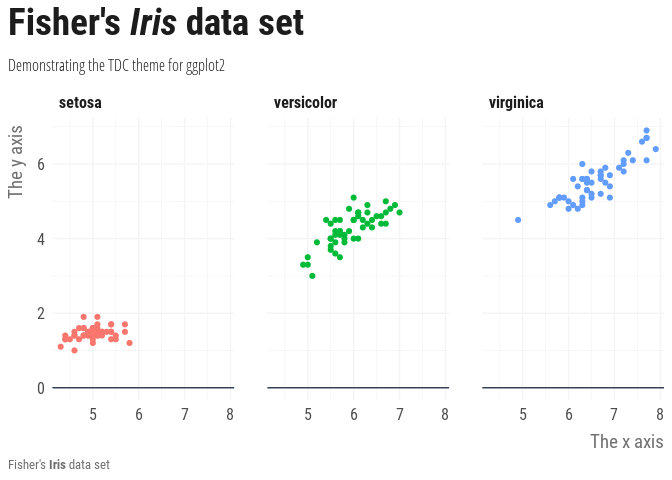
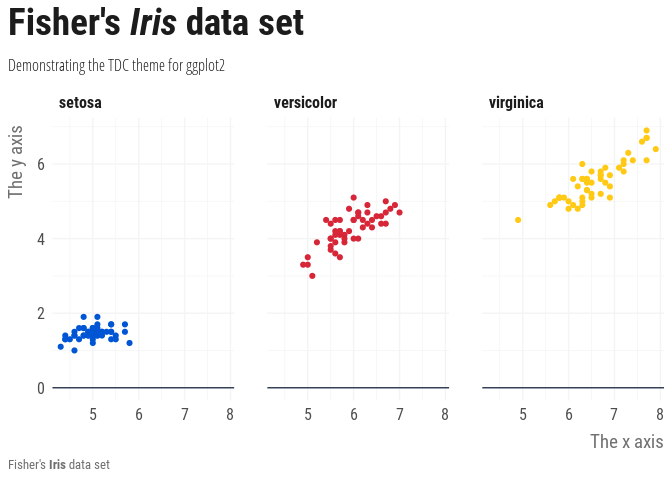
Update fill scale and readme

diff --git a/README.md b/README.md
@@ -13,14 +13,24 @@ available on github, it is purely to provide others with context on how
 they might approach this for their organisation.
 
 Much of this has been riffed off
-[hrbrthemes](https://github.com/hrbrmstr/hrbrthemes) and
-[bbplot](https://github.com/bbc/bbplot).
+[hrbrthemes](https://github.com/hrbrmstr/hrbrthemes),
+[bbplot](https://github.com/bbc/bbplot) and
+[ochRe](https://github.com/ropenscilabs/ochRe)
 
 The package does make use of the
 [ggtext](https://github.com/wilkelab/ggtext) to enhance text styling
 options.
 
 ## Installation
+
+To make full use of the `ggtext` components it is necessary to have
+`gridtext` installed.
+
+``` r
+remotes::install_github("wilkelab/gridtext")
+```
+
+To install `tdcthemes`
 
 ``` r
 remotes::install_github("thedatacollective/tdcthemes")
@@ -36,14 +46,15 @@ library(tdcthemes)
 
 ## basic example code
 ggplot(iris, aes(Sepal.Length, Petal.Length, colour = as.factor(Species))) +
-geom_point() +
-labs(title = "Fisher's *Iris* data set",
-subtitle = "Demonstrating the TDC theme for ggplot2",
-x = "The x axis", y = "The y axis",
-caption = "Fisher's **Iris** data set") +
-facet_wrap(~ Species) +
-style_tdc() +
-NULL
+  geom_point() +
+  labs(title = "Fisher's *Iris* data set",
+       subtitle = "Demonstrating the TDC theme for ggplot2",
+       x = "The x axis", y = "The y axis",
+       caption = "Fisher's **Iris** data set") +
+  facet_wrap(~ Species) +
+  scale_colour_tdc() +
+  style_tdc() +
+  NULL
 ```
 
 <img src="man/figures/README-unnamed-chunk-2-1.png" width="100%" />
